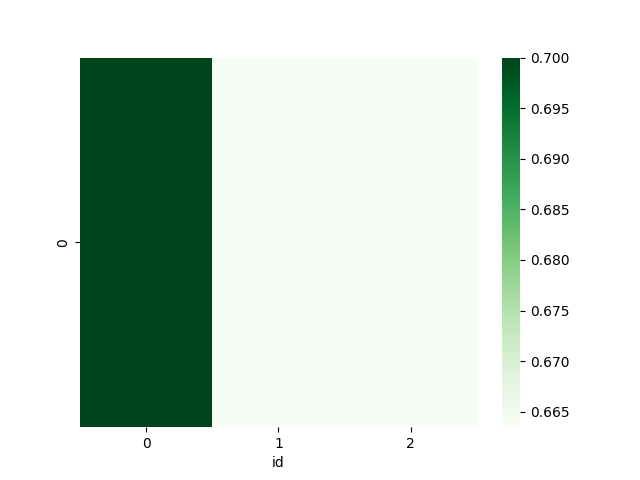
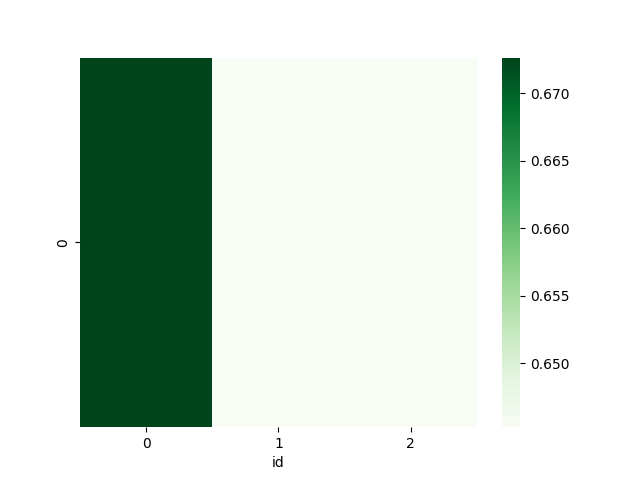
added id handling

diff --git a/CV_Matcher/scripts/service/cv_service.py b/CV_Matcher/scripts/service/cv_service.py
@@ -11,7 +11,6 @@ from scripts.util.cv_util import process_cv
 def add_cvs(cvs): # actual texts form docx/pdf files
     # retrieve all JOB vector embeddings
     job_vector_embeddings = get_jobs_df()
-    id = 1
     for cv in cvs:
         cv_embedding, sim_measures, json_cv = process_cv(cv, job_vector_embeddings)
         sns.heatmap(sim_measures, cmap='Greens')
@@ -20,5 +19,4 @@ def add_cvs(cvs): # actual texts form docx/pdf files
         # save cv_vector_embedding in db
         save_cv_embeddings(cv_embedding)
         # insert new sim_measure 'row'
-        insert_new_row(get_connection(), id, sim_measures)
-        id += 1
+        insert_new_row(get_connection(), 10, sim_measures)

diff --git a/CV_Matcher/scripts/util/vector_embedding_util.py b/CV_Matcher/scripts/util/vector_embedding_util.py
@@ -5,13 +5,13 @@ import pandas as pd
 GOOGLE_API_KEY = 'AIzaSyB5c78qm-K4J7U5xjpQwgsPxhH6YGMqPyo'
 client = genai.Client(api_key=GOOGLE_API_KEY)
 
-def embed_json(json):
+def embed_json(json: str, id: int):
     embedding = client.models.embed_content(
         model='models/text-embedding-004',
         contents=[json],
         config=types.EmbedContentConfig(task_type='semantic_similarity'))
 
-    df_embedding = pd.DataFrame([e.values for e in embedding.embeddings], index=[i for i in range(0, 1)])
+    df_embedding = pd.DataFrame([e.values for e in embedding.embeddings], index=[i for i in range(id, id+1)])
     return df_embedding
 
 def calc_sim_measure(df_cv, df_job):

diff --git a/CV_Matcher/scripts/repo/sim_matrix_repo.py b/CV_Matcher/scripts/repo/sim_matrix_repo.py
@@ -34,7 +34,7 @@ def insert_new_row(conn: connection, new_a_id: int, similarities_df: pd.DataFram
 
         # Prepare values
         values = [new_a_id] + similarities_df.iloc[0].tolist()
-        columns_str = ', '.join(['id'] + b_columns)
+        columns_str = ', '.join(['\"id\"'] + list(map(lambda x: '\"' + x + '\"', b_columns)))
         placeholders = ', '.join(['%s'] * (len(b_columns) + 1))
 
         # Create and execute INSERT query

diff --git a/CV_Matcher/scripts/tests.py b/CV_Matcher/scripts/tests.py
@@ -42,7 +42,7 @@ def test_save_jobs():
     _, job_texts = read_folder('../DataSet/job')
     add_jobs(job_texts)
 def test_save_cvs():
-    _, cv_texts = read_folder('../DataSet/cv', 1)
+    _, cv_texts = read_folder('../DataSet/cv', 3)
     add_cvs(cv_texts)
 
 test_save_cvs()
